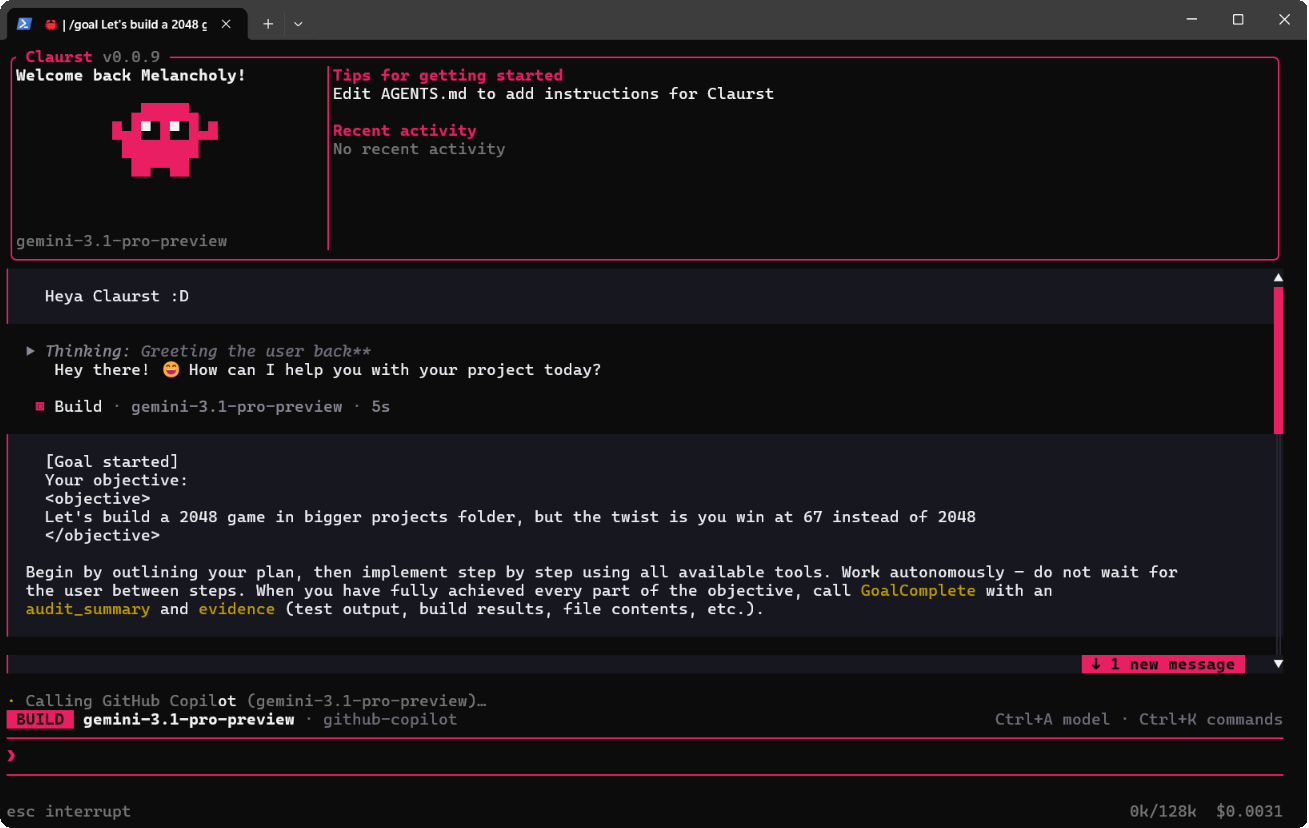
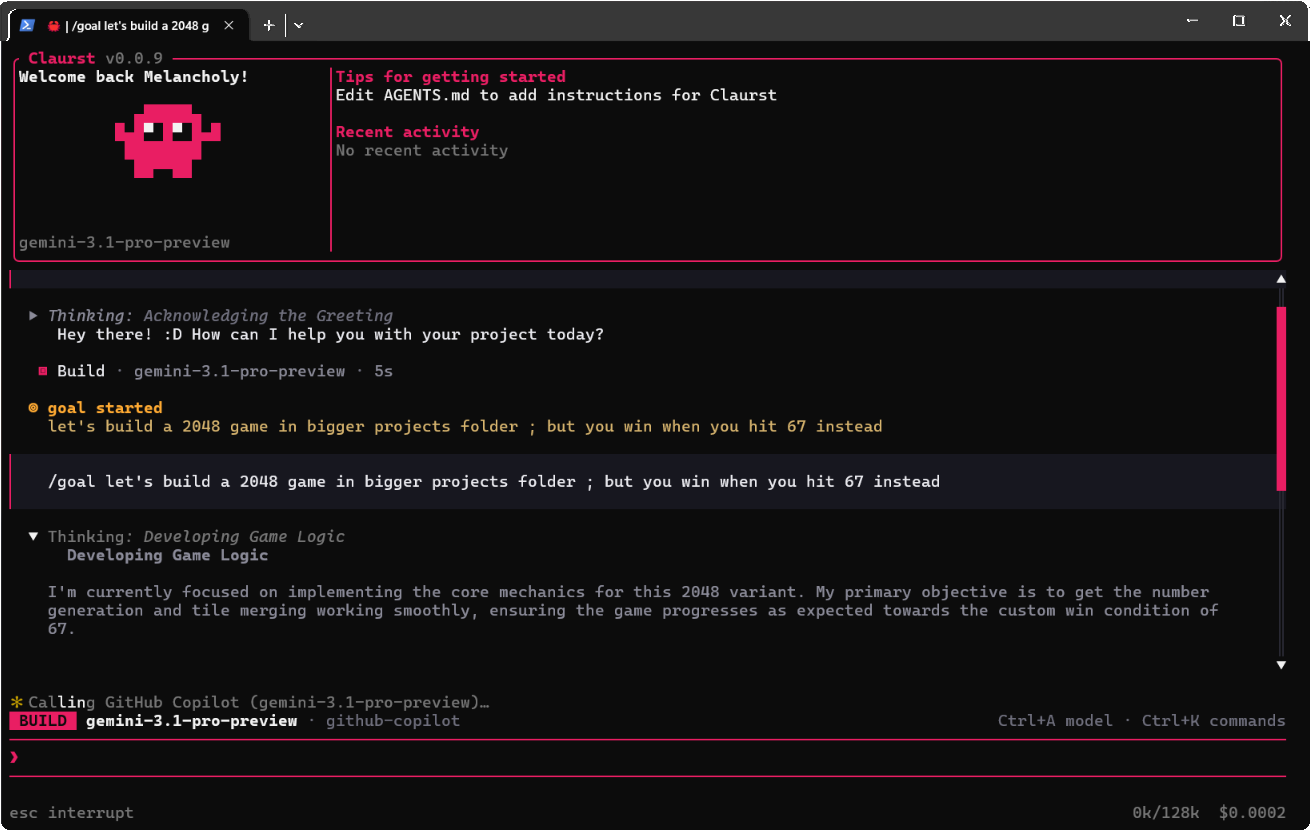
feat: better UI for goals

diff --git a/src-rust/crates/tui/src/messages/mod.rs b/src-rust/crates/tui/src/messages/mod.rs
@@ -70,6 +70,13 @@ const TRANSCRIPT_SUBTLE: Color = Color::Rgb(112, 112, 126);
 
 const TOOL_RESULT_MAX_LINES: usize = 30;
 
+/// Accent color for goal-event blocks (warm amber/gold).
+const GOAL_ACCENT: Color = Color::Rgb(255, 170, 50);
+/// Body text color for goal-event objective display.
+const GOAL_BODY: Color = Color::Rgb(215, 180, 110);
+/// Muted color for goal continuation turn markers.
+const GOAL_MUTED: Color = Color::Rgb(130, 115, 75);
+
 /// Render a code block with optional language label. Uses basic styling
 /// since full syntect integration is behind a feature flag.
 pub fn render_code_block(lang: Option<&str>, code: &str, width: u16) -> Vec<Line<'static>> {
@@ -283,6 +290,14 @@ pub fn render_transcript_user_message(
     meta: Option<&TurnMetadata>,
     width: u16,
 ) -> Vec<Line<'static>> {
+    // Goal-event messages injected by the /goal machinery render as a compact
+    // event block, not as a user input bubble.
+    if let Some(ContentBlock::Text { text }) = msg.content_blocks().into_iter().next() {
+        if is_goal_event_message(&text) {
+            return render_goal_event(&text, width);
+        }
+    }
+
     let inner_width = width.saturating_sub(4).max(10);
     let mut lines = Vec::new();
     let mut pending_text = String::new();
@@ -1765,6 +1780,118 @@ pub fn render_grouped_tool_use(names: &[&str], expanded: bool) -> Vec<Line<'stat
         ]));
     }
     lines
+}
+
+// ---------------------------------------------------------------------------
+// Goal event rendering
+// ---------------------------------------------------------------------------
+
+/// Returns `true` when a user message was injected by the goal machinery
+/// (i.e. it should NOT render as a regular user message bubble).
+pub fn is_goal_event_message(text: &str) -> bool {
+    text.starts_with("[Goal started]")
+        || text.starts_with("[Goal continuation \u{2014}")  // em dash
+        || text.starts_with("[Goal continuation -")         // fallback
+}
+
+/// Extract the objective text between `<objective>` and `</objective>` tags.
+fn extract_goal_objective(text: &str) -> Option<String> {
+    let tag = "<objective>";
+    let start = text.find(tag)? + tag.len();
+    let end = text.find("</objective>")?;
+    if end > start {
+        Some(text[start..end].trim().to_string())
+    } else {
+        None
+    }
+}
+
+/// Extract the turn number from a "[Goal continuation — turn N]" header.
+fn extract_goal_turn(text: &str) -> Option<u32> {
+    // Find the first [...] bracket, search inside for "turn <N>"
+    let open = text.find('[')?;
+    let close = text.find(']')?;
+    if close <= open { return None; }
+    let segment = &text[open..close];
+    let tag = "turn ";
+    let idx = segment.rfind(tag)? + tag.len();
+    segment[idx..].trim().parse().ok()
+}
+
+/// Render a goal-event message block.
+///
+/// `[Goal started]` shows the ◎ badge and the objective text.
+/// `[Goal continuation — turn N]` shows a compact inline turn marker.
+pub fn render_goal_event(text: &str, width: u16) -> Vec<Line<'static>> {
+    if text.starts_with("[Goal continuation —") {
+        let turn = extract_goal_turn(text).unwrap_or(0);
+        return vec![Line::from(vec![
+            Span::styled(
+                "  \u{21ba} ".to_string(),  // ↺
+                Style::default().fg(GOAL_MUTED),
+            ),
+            Span::styled(
+                format!("goal \u{00b7} turn {}", turn),  // ·
+                Style::default().fg(GOAL_MUTED).add_modifier(Modifier::ITALIC),
+            ),
+        ])];
+    }
+
+    // [Goal started] — header + wrapped objective
+    let mut lines = Vec::new();
+    lines.push(Line::from(vec![
+        Span::styled(
+            "  \u{25ce} ".to_string(),  // ◎
+            Style::default().fg(GOAL_ACCENT).add_modifier(Modifier::BOLD),
+        ),
+        Span::styled(
+            "goal started".to_string(),
+            Style::default().fg(GOAL_ACCENT).add_modifier(Modifier::BOLD),
+        ),
+    ]));
+
+    let objective = extract_goal_objective(text).unwrap_or_default();
+    if !objective.is_empty() {
+        let usable = (width as usize).saturating_sub(6).max(20);
+        for line in wrap_plain_text(&objective, usable) {
+            lines.push(Line::from(vec![
+                Span::styled("    ".to_string(), Style::default()),
+                Span::styled(line, Style::default().fg(GOAL_BODY)),
+            ]));
+        }
+    }
+
+    lines
+}
+
+/// Simple plain-text word-wrap (no markdown, no indent prefix).
+fn wrap_plain_text(text: &str, max_width: usize) -> Vec<String> {
+    if max_width == 0 {
+        return vec![text.to_string()];
+    }
+    let mut out = Vec::new();
+    for para in text.lines() {
+        if para.is_empty() {
+            out.push(String::new());
+            continue;
+        }
+        let mut current = String::new();
+        for word in para.split_whitespace() {
+            if current.is_empty() {
+                current.push_str(word);
+            } else if current.len() + 1 + word.len() <= max_width {
+                current.push(' ');
+                current.push_str(word);
+            } else {
+                out.push(current.clone());
+                current = word.to_string();
+            }
+        }
+        if !current.is_empty() {
+            out.push(current);
+        }
+    }
+    out
 }
 
 #[cfg(test)]

diff --git a/src-rust/crates/tui/src/transcript_turn.rs b/src-rust/crates/tui/src/transcript_turn.rs
@@ -59,7 +59,8 @@ pub fn reasoning_heading(text: &str) -> Option<String> {
     let cleaned = first
         .trim_start_matches(['#', '*', '-', '>', ' '])
         .trim_start_matches("Thinking:")
-        .trim();
+        .trim()
+        .trim_end_matches(['*', '#', ' ', ':']);  // strip trailing ** ** etc.
     if cleaned.is_empty() {
         return None;
     }